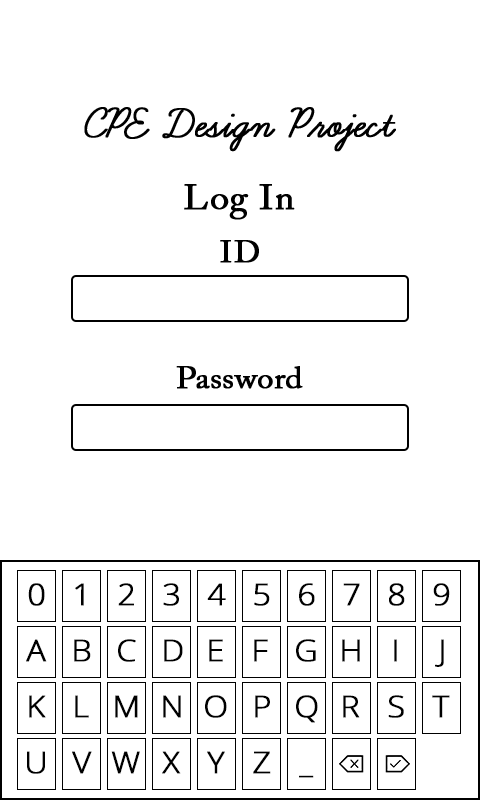
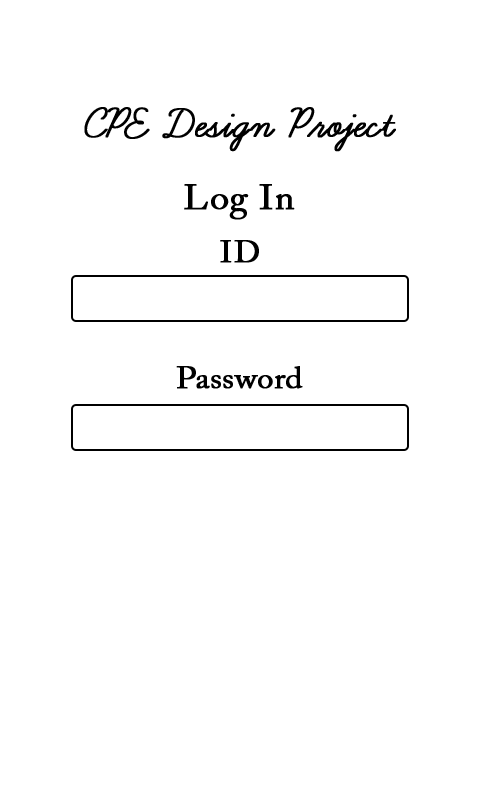
Keyboard prototype

Changed region(s): [[0.0, 0.6875, 1.0, 1.0]]

diff --git a/main.py b/main.py
@@ -18,102 +18,144 @@
 # -Read input buttons (hw) (interrupt)
 
 from PIL import Image, ImageDraw, ImageFont
-
+import PIL.ImageOps
 
 keys =  [
-		['0', '1', '2', '3', '4', '5', '6', '7', '8', '9'],
-		['A', 'B', 'C', 'D', 'E', 'F', 'G', 'H', 'I',' J'],
-		['K', 'L', 'M', 'N', 'O', 'P', 'Q', 'R', 'S', 'T'],
-		['U', 'V', 'W', 'X', 'Y', 'Z', ' ', 127, 0, 0]
-		]
-		#DEL = 127, 0 = OK
-prebase = None
+        ['0', '1', '2', '3', '4', '5', '6', '7', '8', '9'],
+        ['A', 'B', 'C', 'D', 'E', 'F', 'G', 'H', 'I',' J'],
+        ['K', 'L', 'M', 'N', 'O', 'P', 'Q', 'R', 'S', 'T'],
+        ['U', 'V', 'W', 'X', 'Y', 'Z', ' ', 127, 0, 0]
+        ]
+        #DEL = 127, 0 = OK
+
 base = None
 lastkey = ''
 
 
 def ShowKeyboard():
-	global base, prebase,lastkey
-	prebase = base
-	keyboard = Image.open('resources/ui/keyboard.png').convert('RGBA')
-	base.paste(keyboard, (0, 560), keyboard)
-	curr_selection = 
-	curr_region = 
+    global base,lastkey
+    keyboard = Image.open('resources/ui/keyboard.png').convert('RGB')
+    base.paste(keyboard, (0, 560))
 
-	# Loop: Get button input
-	# Get selection and region and invert color 
+    #Select letter 'A'
+
+    letter = [0, 0] # Corresponds to what letter in the keys array
+    keybox = [17, 570, 56, 622] # Coordinate for the button on the keyboard. Convert to tuple when used on functions..
+    
+    keyregion = base.crop(tuple(keybox))
+    base.paste(PIL.ImageOps.invert(keyregion), keybox)
+    base.show()
+    base.save('cache/screens/screen.png', "PNG")
+
+    # Loop: Get button input
+    while True:
+        inp = raw_input("Input: ") #Change this to button input'
+        inp = inp.strip()
+        if inp == 'done':
+            break
+        elif inp == 'right':
+            if letter[1] == 9 or cmp(letter, [8, 8]) == 0:
+                pass
+            else:
+                # Uninvert current selection 
+                base.paste(keyregion, keybox)
+                # Update variables 
+                letter[1] += 1
+                keybox[0] += 45
+                keybox[2] += 45
+                # Invert new selection
+                keyregion = base.crop(tuple(keybox))
+                base.paste(PIL.ImageOps.invert(keyregion), keybox)
+                base.show()
+                base.save('cache/screens/screen.png', "PNG")
+                print keys[letter[0]][letter[1]]
+        elif inp == 'left':
+            if letter[1] == 0:
+                pass
+            else:
+                # Uninvert current selection 
+                base.paste(keyregion, keybox)
+                # Update variables 
+                letter[1] -= 1
+                keybox[0] -= 45
+                keybox[2] -= 45
+                # Invert new selection
+                keyregion = base.crop(tuple(keybox))
+                base.paste(PIL.ImageOps.invert(keyregion), keybox)
+                base.show()
+                base.save('cache/screens/screen.png', "PNG")
+                print keys[letter[0]][letter[1]]
+            pass
+        elif inp == 'up':
+            if letter[0] == 0:
+                pass
+            else:
+                # Uninvert current selection 
+                base.paste(keyregion, keybox)
+                # Update variables 
+                letter[0] -= 1
+                keybox[1] -= 56
+                keybox[3] -= 56
+                # Invert new selection
+                keyregion = base.crop(tuple(keybox))
+                base.paste(PIL.ImageOps.invert(keyregion), keybox)
+                base.show()
+                base.save('cache/screens/screen.png', "PNG")
+                print keys[letter[0]][letter[1]]
+            pass
+        elif inp == 'down':
+            if letter[0] == 3 or cmp(letter, [9, 2]):
+                pass
+            else:
+                # Uninvert current selection 
+                base.paste(keyregion, keybox)
+                # Update variables 
+                letter[0] += 1
+                keybox[1] += 56
+                keybox[3] += 56
+                # Invert new selection
+                keyregion = base.crop(tuple(keybox))
+                base.paste(PIL.ImageOps.invert(keyregion), keybox)
+                base.show()
+                base.save('cache/screens/screen.png', "PNG")
+                print keys[letter[0]][letter[1]]    
+            pass
+        elif inp == 'ok':
+            pass
+        elif inp == 'cancel':
+            pass
+        else:
+            pass
+
+    keyboard.close
 
 
 def HideKeyboard():
-	base = prebase
-	prebase = None
+    pass
 
 def Main():
-	# Draw the log in screen
-	global base, lastkey
-	base = Image.open('resources/ui/epd.png').convert('RGBA')
-	temp_im = Image.open('resources/ui/label_title.png')
-	base.paste(temp_im, (95,40), temp_im)
-	temp_im = Image.open('resources/ui/label_login.png')
-	base.paste(temp_im, (190,135), temp_im)
-	temp_im = Image.open('resources/ui/label_id.png')
-	base.paste(temp_im, (220,200), temp_im)
-	temp_im = Image.open('resources/ui/element_textbox.png')
-	base.paste(temp_im, (71,231), temp_im)
-	base.paste(temp_im, (71,331), temp_im)
-	temp_im = Image.open('resources/ui/label_password.png')
-	base.paste(temp_im, (184,300), temp_im)
-	base.show()
-	base.save('cache/screens/screen.png', "PNG")
+    # Draw the log in screen
+    global base, lastkey
+    base = Image.open('resources/ui/epd.png').convert('RGB')
+    temp_im = Image.open('resources/ui/screen_login.png')
+    base.paste(temp_im, (0,0), temp_im)
 
-	# Code for drawing text on image
-	txt = Image.new('RGBA', base.size, (255,255,255,0))
-	fnt = ImageFont.truetype('resources/fonts/ACaslonPro-Regular.otf', 35)
+    # Code for drawing text on image
+    txt = Image.new('RGB', base.size, (255,255,255,0))
+    fnt = ImageFont.truetype('resources/fonts/ACaslonPro-Regular.otf', 35)
 
-	ShowKeyboard()
-	base.show()
-	base.save('cache/screens/screen.png', "PNG")
+    ShowKeyboard()
+    base.show()
+    base.save('cache/screens/screen.png', "PNG")
 
-	# # Get input for Log in
-	# username = ''
-	# x = 80
-	# while True:
-	# 	key = raw_input("ID: ") # Wait for button input. Substitute for on-screen keyboardbutton!!
-	# 	if key.strip() == 'done':
-	# 		break
-	# 	username += key
-	# 	d = ImageDraw.Draw(txt)
-	# 	d.text((x,239), key.strip(), font=fnt, fill=(0,0,0,255))
-	# 	base = Image.alpha_composite(base, txt)
-	# 	x += 20
-	# 	base.show()
-	# 	# base.save('cache/screens/screen.png', "PNG")
-		
-	# print username
 
-	# # Get input for password
-	# password = ''
-	# x = 80
-	# while True:
-	# 	key = raw_input("Pass: ") # Same as above
-	# 	if key.strip() == 'done':
-	# 		break
-	# 	password += key
-	# 	d = ImageDraw.Draw(txt)
-	# 	d.text((x,345), "* " * len(key.strip()), font=fnt, fill=(0,0,0,255))
-	# 	base = Image.alpha_composite(base, txt)
-	# 	x += 20
-	# 	base.show()
-	# 	# base.save('cache/screens/screen.png', "PNG")
+    # Attemp log in
+    
 
-	# print password
-
-	# # Attemp log in
-	
-
-	# base.show()
-	# # base.save('cache/screens/screen.png', "PNG")
-
+    # base.show()
+    # # base.save('cache/screens/screen.png', "PNG")
+    base.close()
+    temp_im.close()
 
 if __name__ == '__main__':
     Main()
